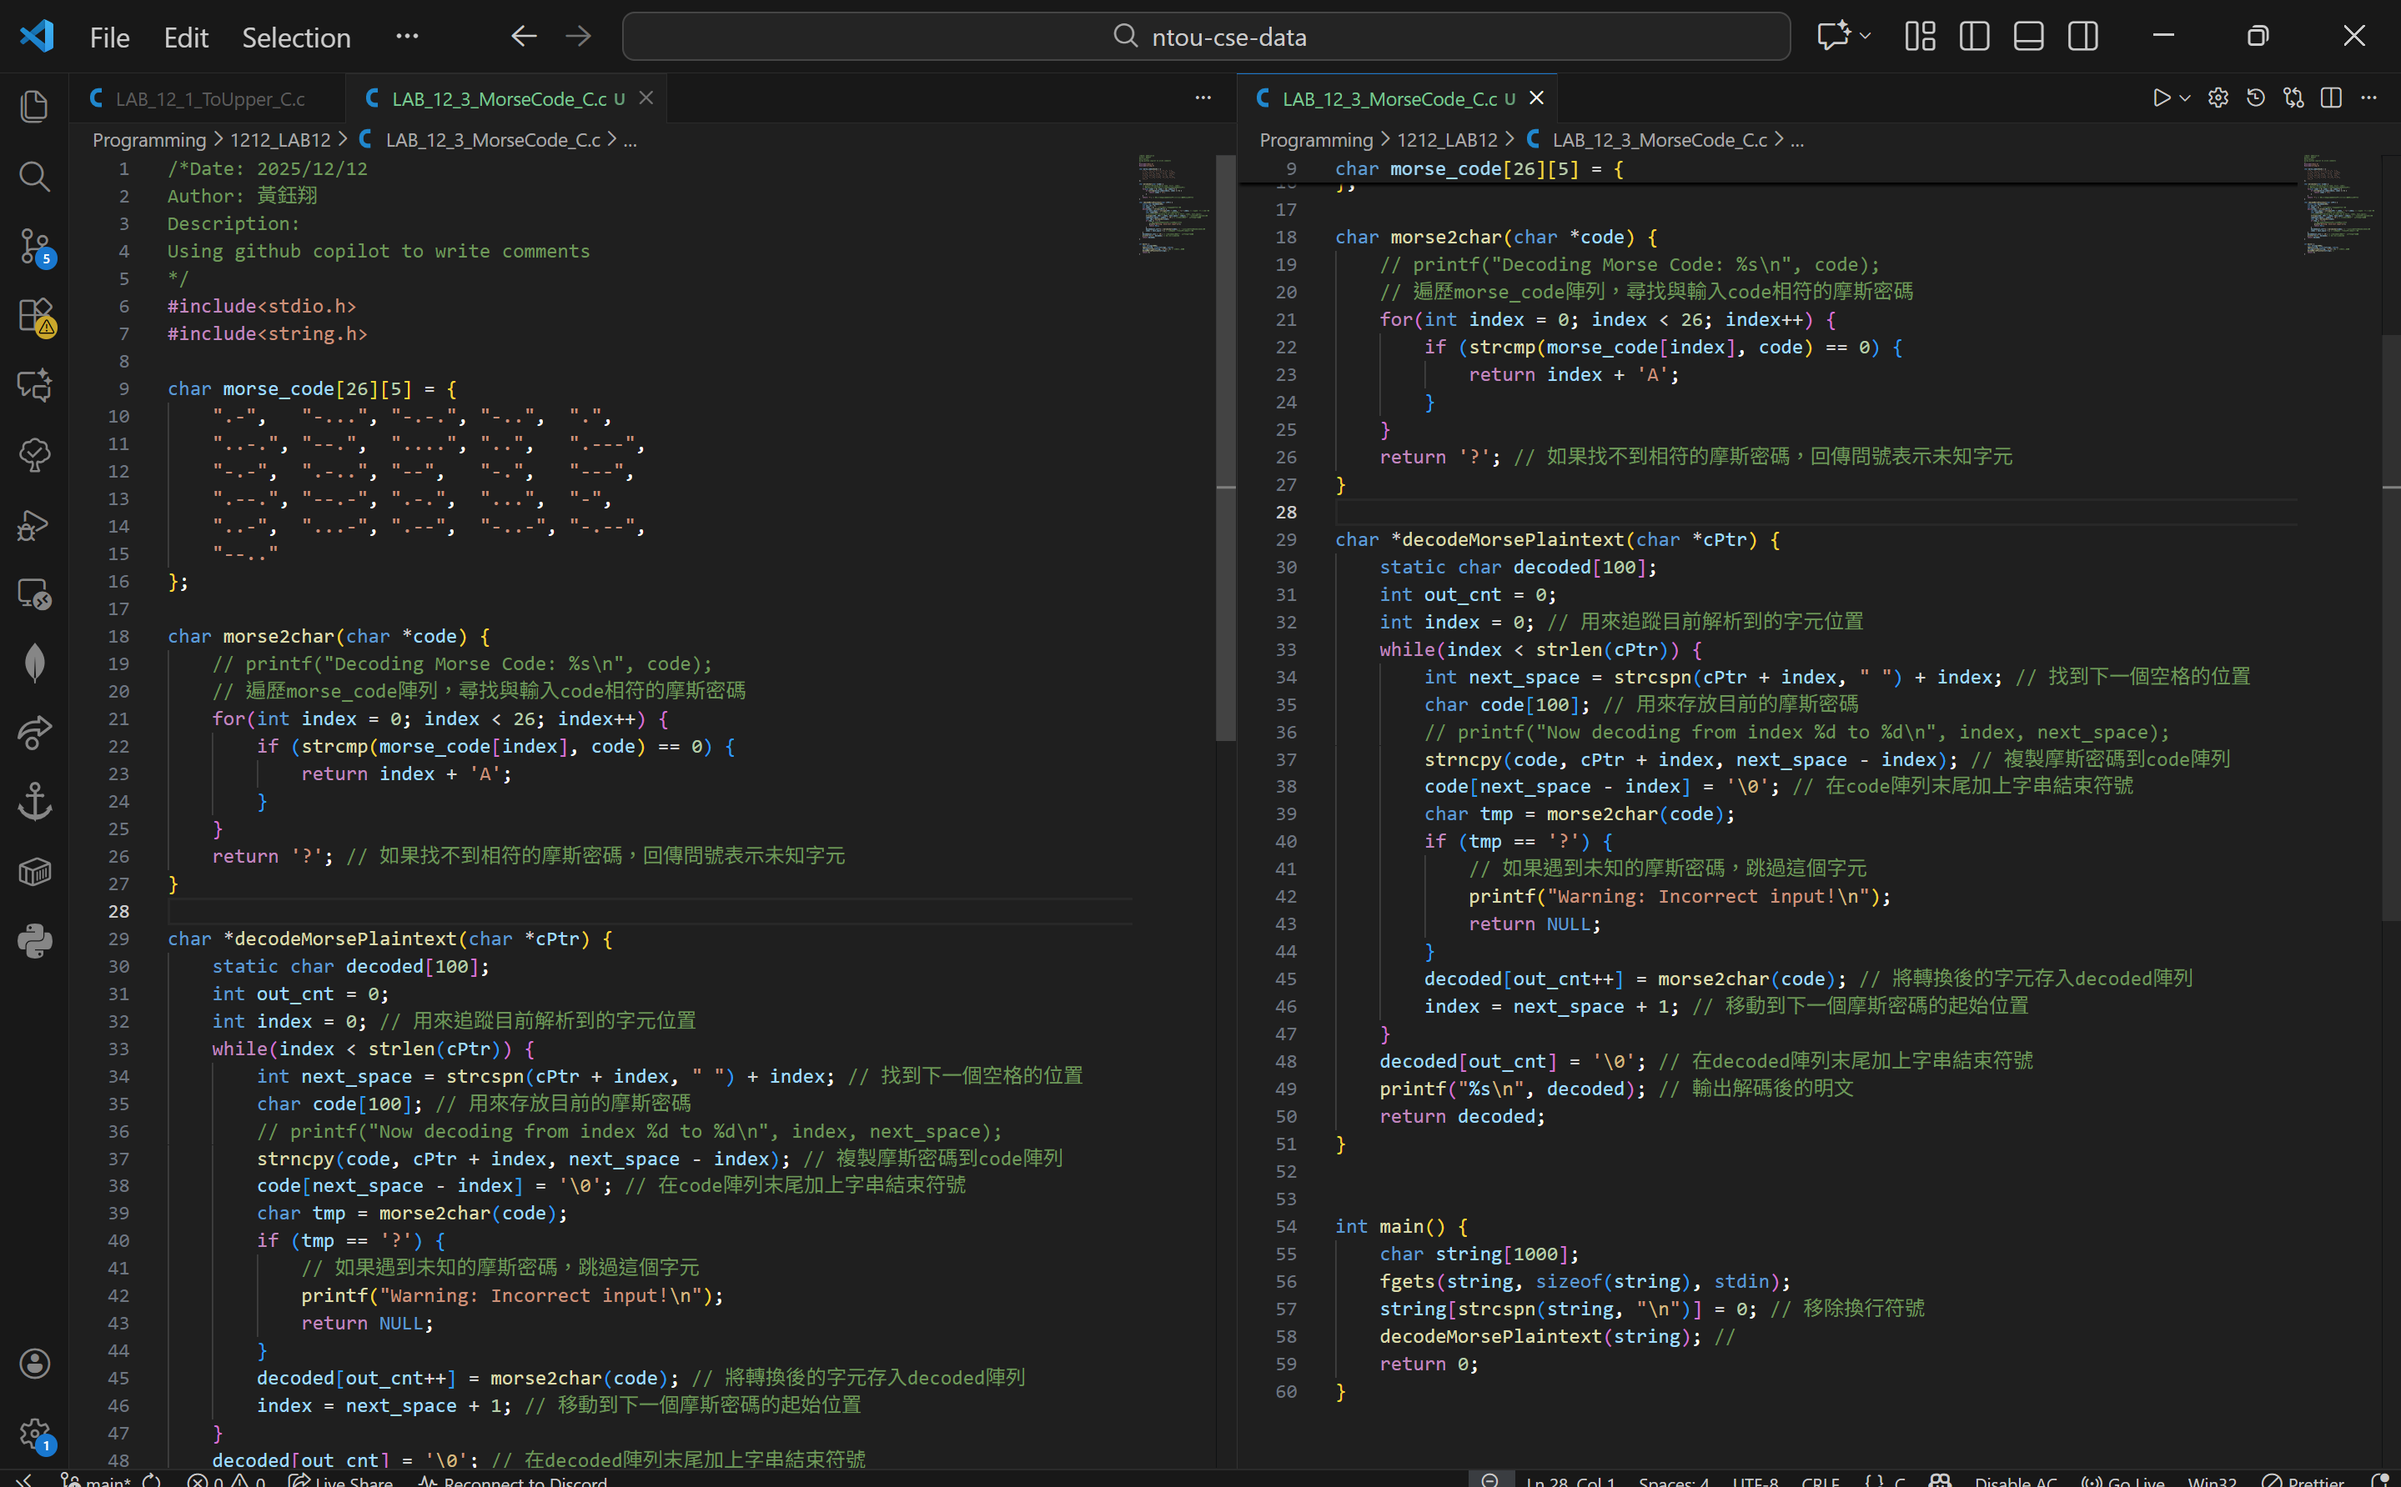
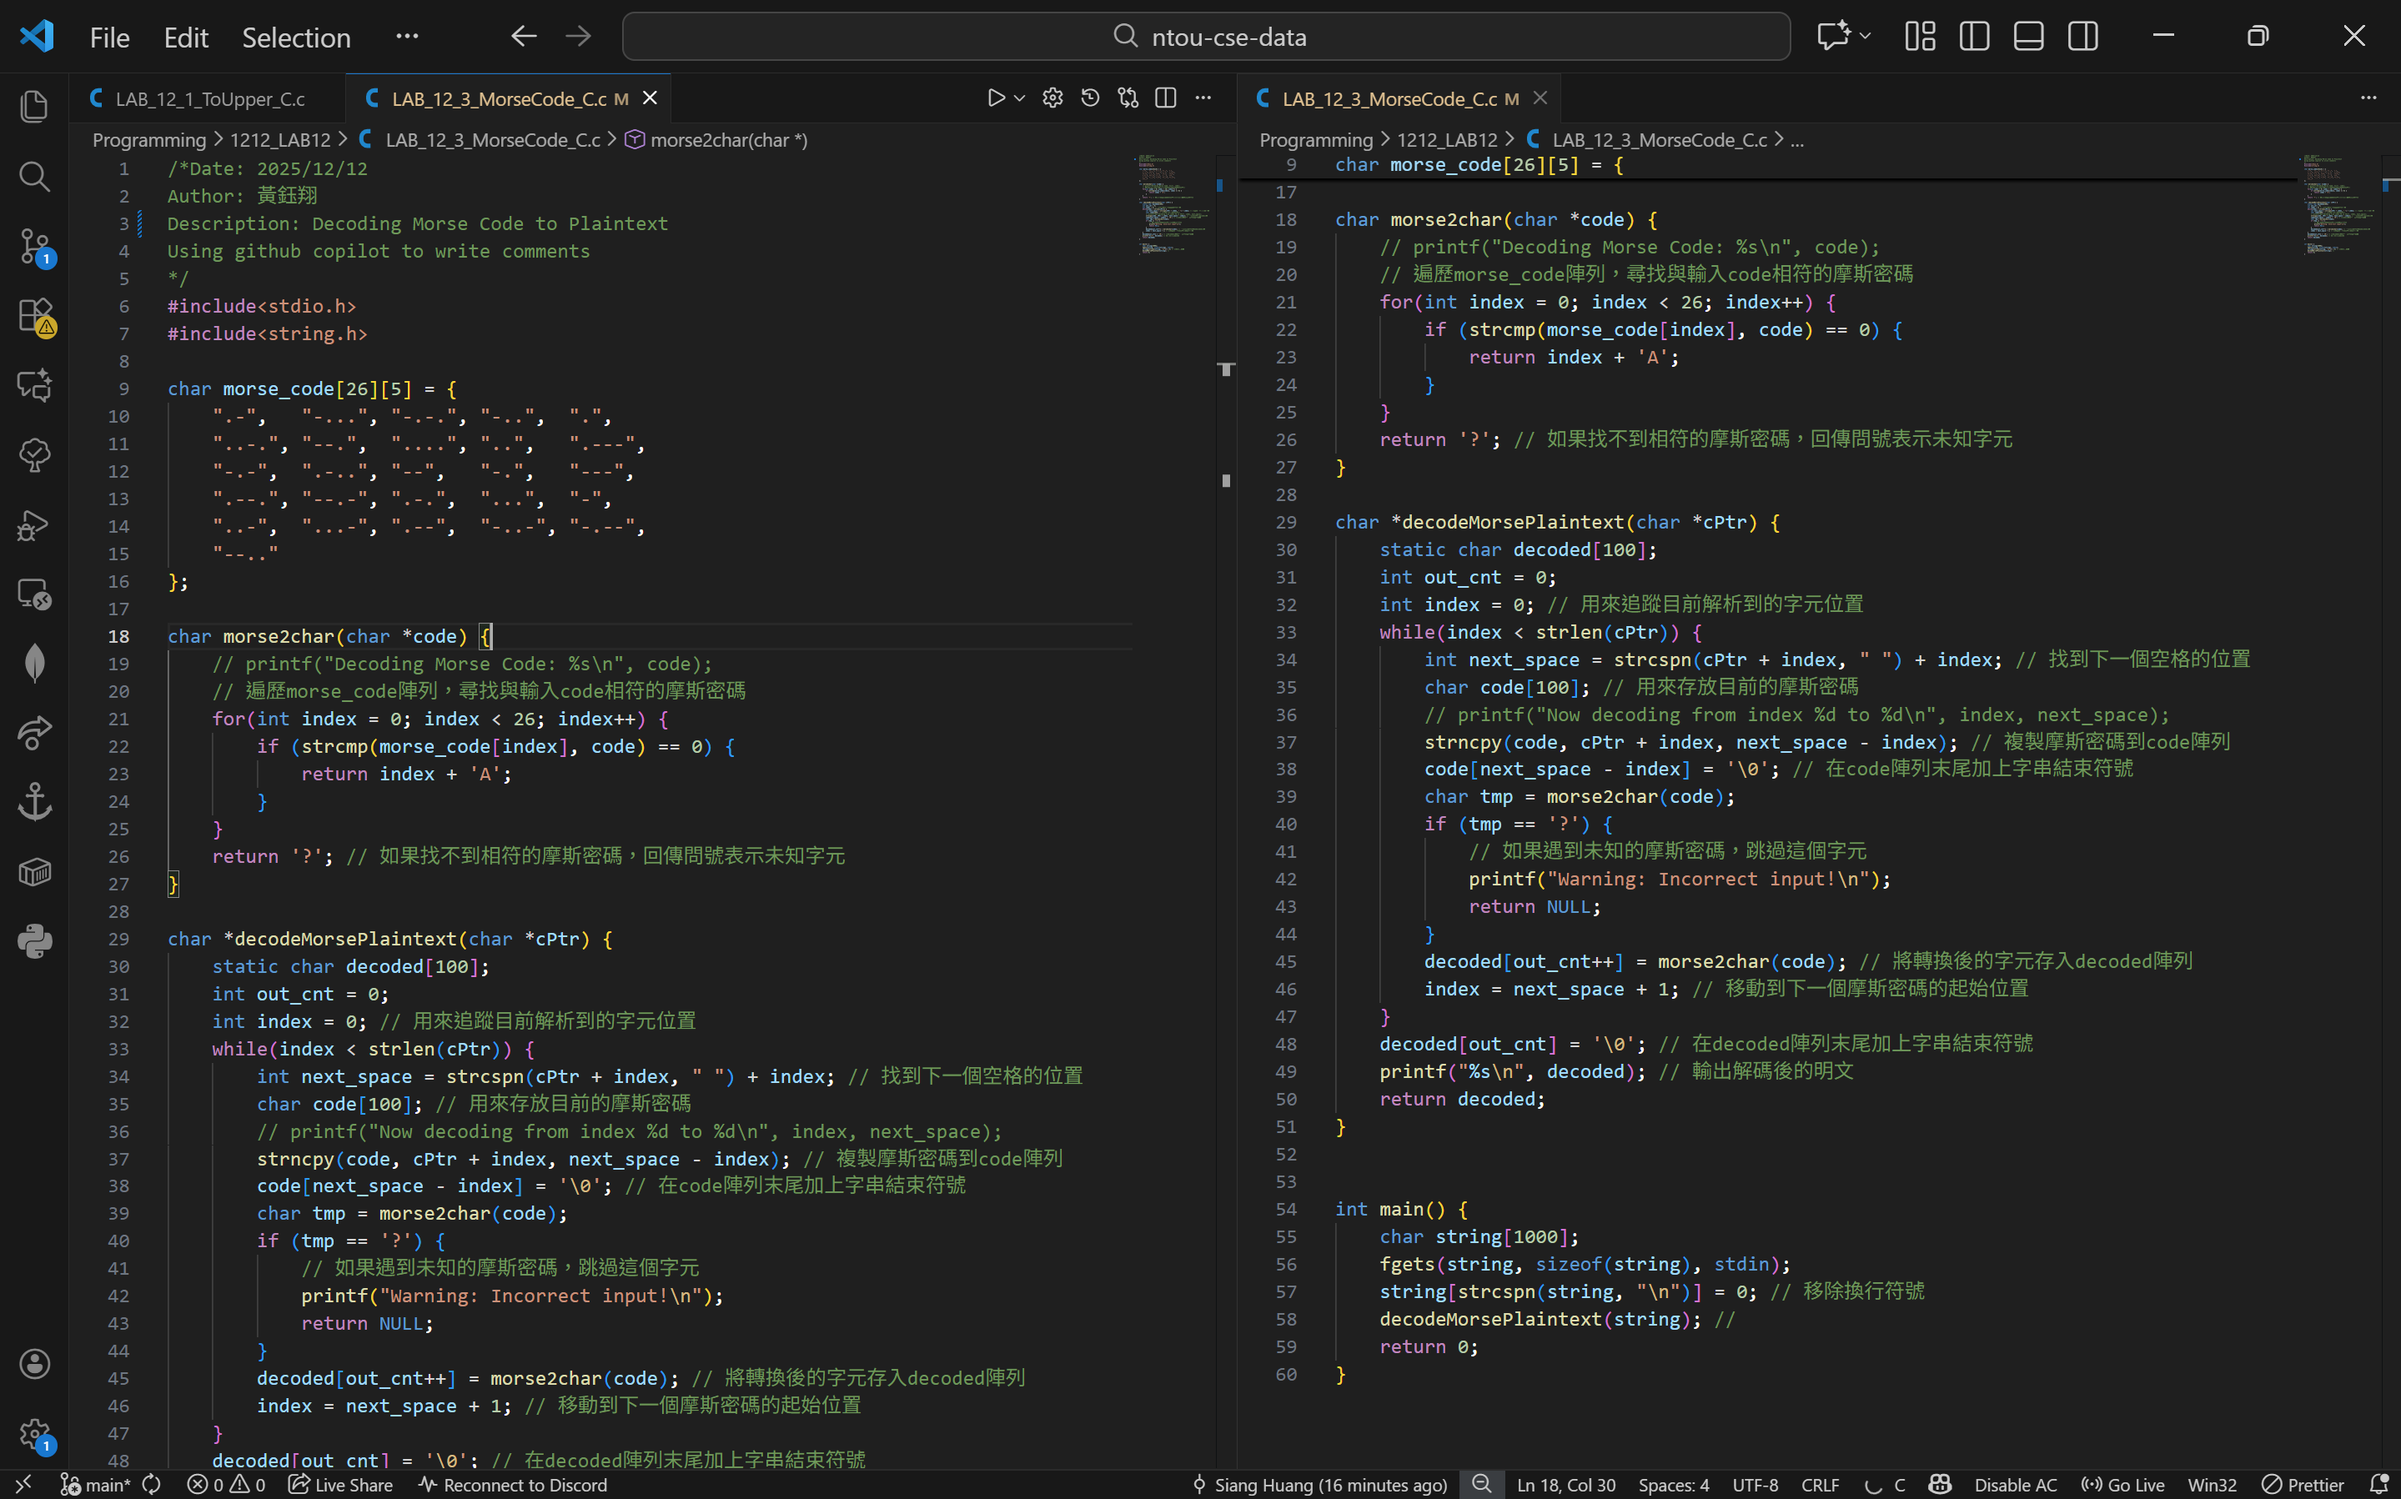
update: lab12

diff --git a/Programming/1212_LAB12/LAB_12_3_MorseCode_C.c b/Programming/1212_LAB12/LAB_12_3_MorseCode_C.c
@@ -1,6 +1,6 @@
 /*Date: 2025/12/12
 Author: 黃鈺翔
-Description: 
+Description: Decoding Morse Code to Plaintext
 Using github copilot to write comments
 */
 #include<stdio.h>
